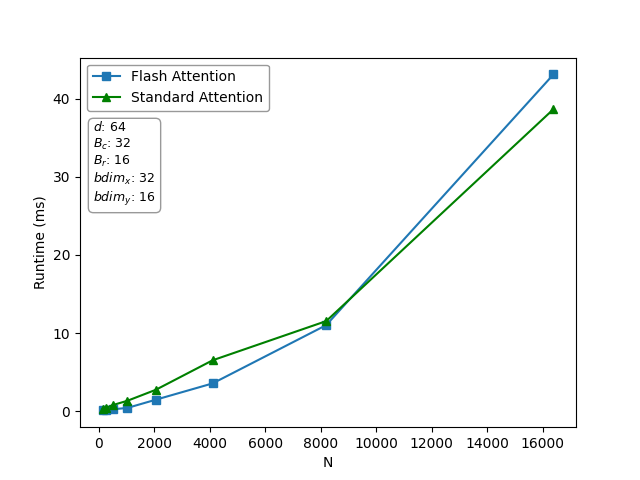
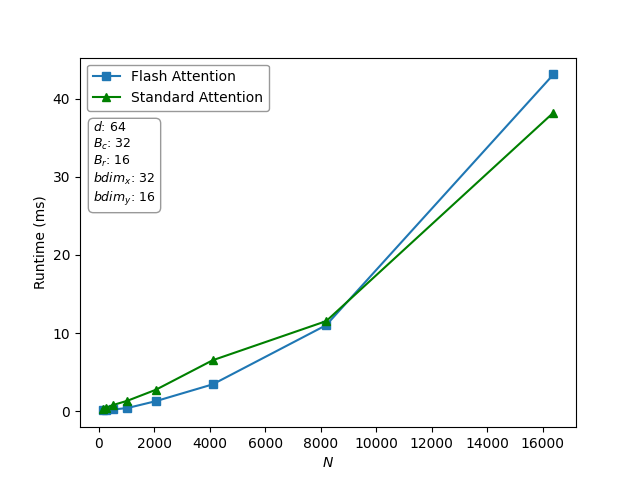
corrected plots

diff --git a/project/python/plotting_benchmarks.py b/project/python/plotting_benchmarks.py
@@ -82,7 +82,7 @@ def main():
         linestyle='-',
         color='g'
     )
-    plt.xlabel("N")
+    plt.xlabel(r"$N$")
     plt.ylabel("Runtime (ms)")
     plt.ylabel("Runtime (ms)")
 
